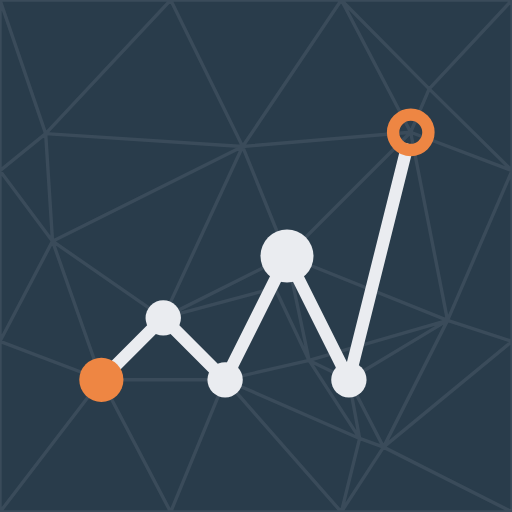
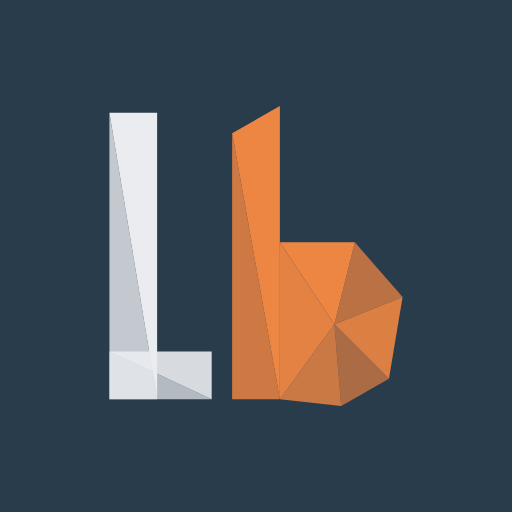
Új logó: Lb monogram (low-poly)
Nagy L (mark-l) és kis b (mark-b) egymás mellett, háromszög-lapokra
bontva; az útvonal-jel és a háló helyett. Ikonok, fejlécek, design
system leírás.

Claude-Session: https://claude.ai/code/session_01H1wmoSmhiEtFXmTDfpv1dW

Changed region(s): [[0.1562, 0.1875, 0.875, 0.8125]]

diff --git a/index.html b/index.html
@@ -82,11 +82,11 @@
   button { font: inherit; color: inherit; cursor: pointer; }
   button:focus-visible { outline: 2px solid var(--fg); outline-offset: 3px; }
   h1, h2, h3, p { margin: 0; }
-  .mk .ln{stroke:var(--mark-l)}.mk .dt{fill:var(--mark-l)}.mk .st{fill:var(--mark-b)}.mk .en{stroke:var(--mark-ring)}.mk .ms{stroke:var(--mark-l);stroke-opacity:.09}
+  .mk .l{fill:var(--mark-l)}.mk .b{fill:var(--mark-b)}
 
   /* ---------- fejléc ---------- */
   .head { display: flex; align-items: center; gap: var(--space-4); margin: var(--space-4) 0 var(--space-6); }
-  .head .mk { width: 64px; height: auto; flex: none; }
+  .head .mk { width: 52px; height: auto; flex: none; }
   .head h1 { font-size: 34px; line-height: 38px; font-weight: 600; letter-spacing: -0.02em; }
   .sub { color: var(--fg-muted); font-size: 15px; line-height: 22px; }
 
@@ -1784,7 +1784,7 @@ const LIB = 'https://laszlobiri.com/lib/v1/';
   let kidExitWarn = false;
   let reports = null;           // a szülői nézet nyitott jelentései
   let reportOpen = false;       // a kérdésnél nyitva van-e a „Mi a hiba?” doboz
-  const APP_VERSION = 'gyakorlo-v25';
+  const APP_VERSION = 'gyakorlo-v26';
   const REASONS = { wrong_answer: 'Rossz a megoldás', bad_question: 'Hibás a kérdés', other: 'Más baj van' };
 
   function emptyCache() { return { pupils: [], results: {}, badges: {}, current: null, userId: null, householdId: null, access: {} }; }
@@ -2245,7 +2245,7 @@ ${WS.done ? `<button class="big-btn" data-go="home">Vissza a témákhoz</button>
   }
 
   /* ================= nézetek ================= */
-  const MARK = '<svg class="mk" viewBox="0 0 86 72" role="img" aria-label="laszlobiri jel"><polyline class="ln" fill="none" stroke-width="2.8" stroke-linecap="round" stroke-linejoin="round" points="8,64 22,50 36,64 50,36 64,64 77.03,11.88"/><circle class="st" cx="8" cy="64" r="5"/><circle class="dt" cx="22" cy="50" r="4"/><circle class="dt" cx="36" cy="64" r="4"/><circle class="dt" cx="50" cy="36" r="6"/><circle class="dt" cx="64" cy="64" r="4"/><circle class="en" cx="78" cy="8" r="4" fill="none" stroke-width="2.8"/></svg>';
+  const MARK = '<svg class="mk" viewBox="4 6 86 88" role="img" aria-label="laszlobiri jel"><polygon class="l" points="4,8 18,8 18,92"/><polygon class="l" points="4,8 18,92 4,92" fill-opacity="0.8"/><polygon class="l" points="4,78 34,78 34,92" fill-opacity="0.9"/><polygon class="l" points="4,78 34,92 4,92" fill-opacity="0.72"/><polygon class="b" points="40,14 54,6 54,92"/><polygon class="b" points="40,14 54,92 40,92" fill-opacity="0.84"/><polygon class="b" points="70,70 54,46 76,46"/><polygon class="b" points="70,70 76,46 90,62" fill-opacity="0.74"/><polygon class="b" points="70,70 90,62 86,86" fill-opacity="0.9"/><polygon class="b" points="70,70 86,86 72,94" fill-opacity="0.66"/><polygon class="b" points="70,70 72,94 54,92" fill-opacity="0.82"/><polygon class="b" points="70,70 54,92 54,46" fill-opacity="0.95"/></svg>';
 
   function dotsHtml(res, now, big) {
     let h = `<div class="dots${big ? ' big' : ''}" role="img" aria-label="${res.filter(Boolean).length} jó válasz a ${res.filter(v => v !== undefined).length} megválaszolt kérdésből">`;

diff --git a/sw.js b/sw.js
@@ -1,7 +1,7 @@
 // Egyszerű offline gyorsítótár: az app héja induláskor mentődik.
 // A tokens.css és a lib/v1 külső (laszlobiri.com), ezért nincs az előre mentett listában;
 // az első betöltéskor kerülnek a gyorsítótárba.
-const CACHE = 'gyakorlo-v25';
+const CACHE = 'gyakorlo-v26';
 const ASSETS = ['./', 'index.html', 'manifest.webmanifest', 'icon.svg', 'icon-192.png', 'icon-512.png', 'icon-180.png'];
 
 self.addEventListener('install', e => {
